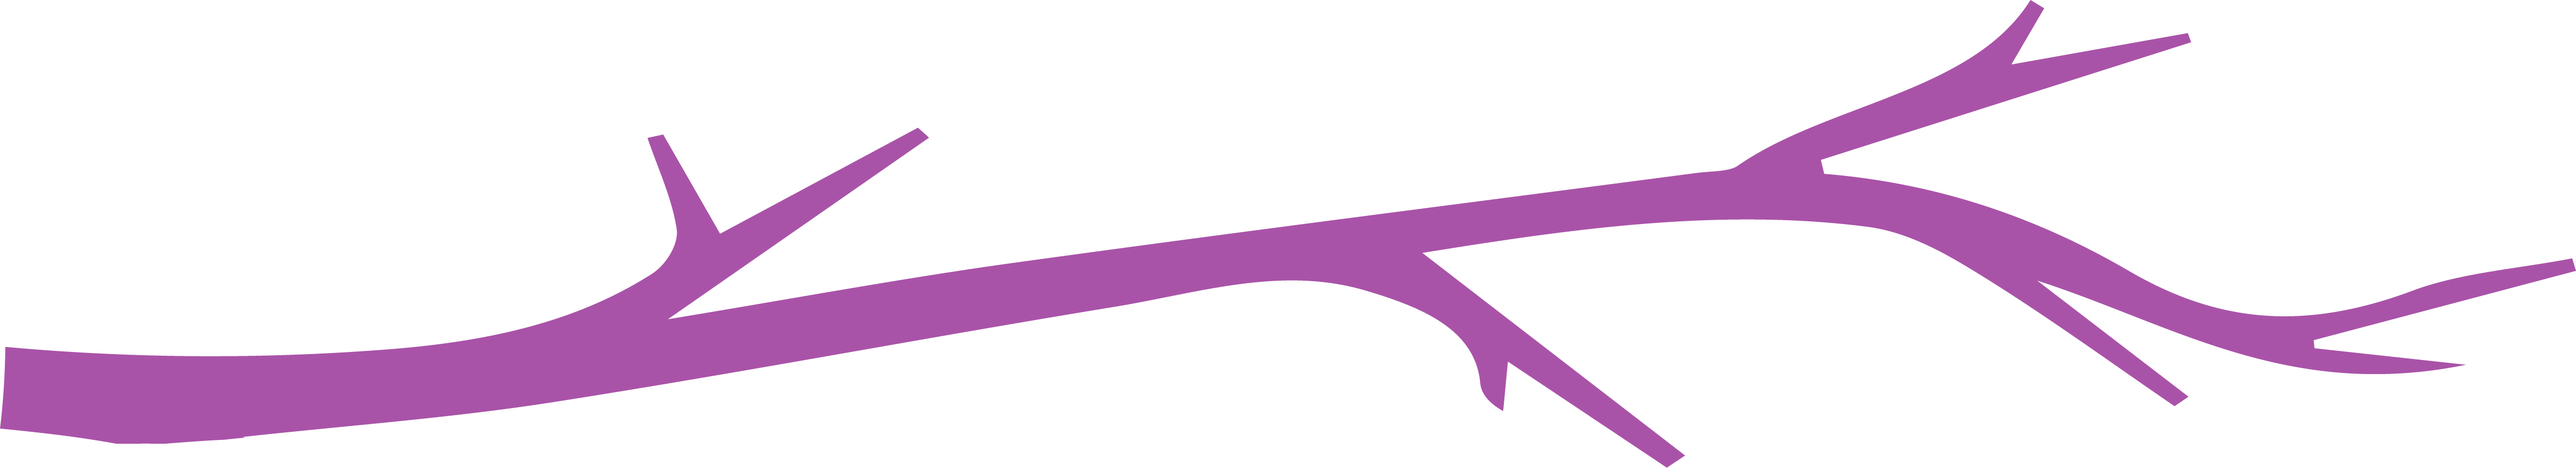
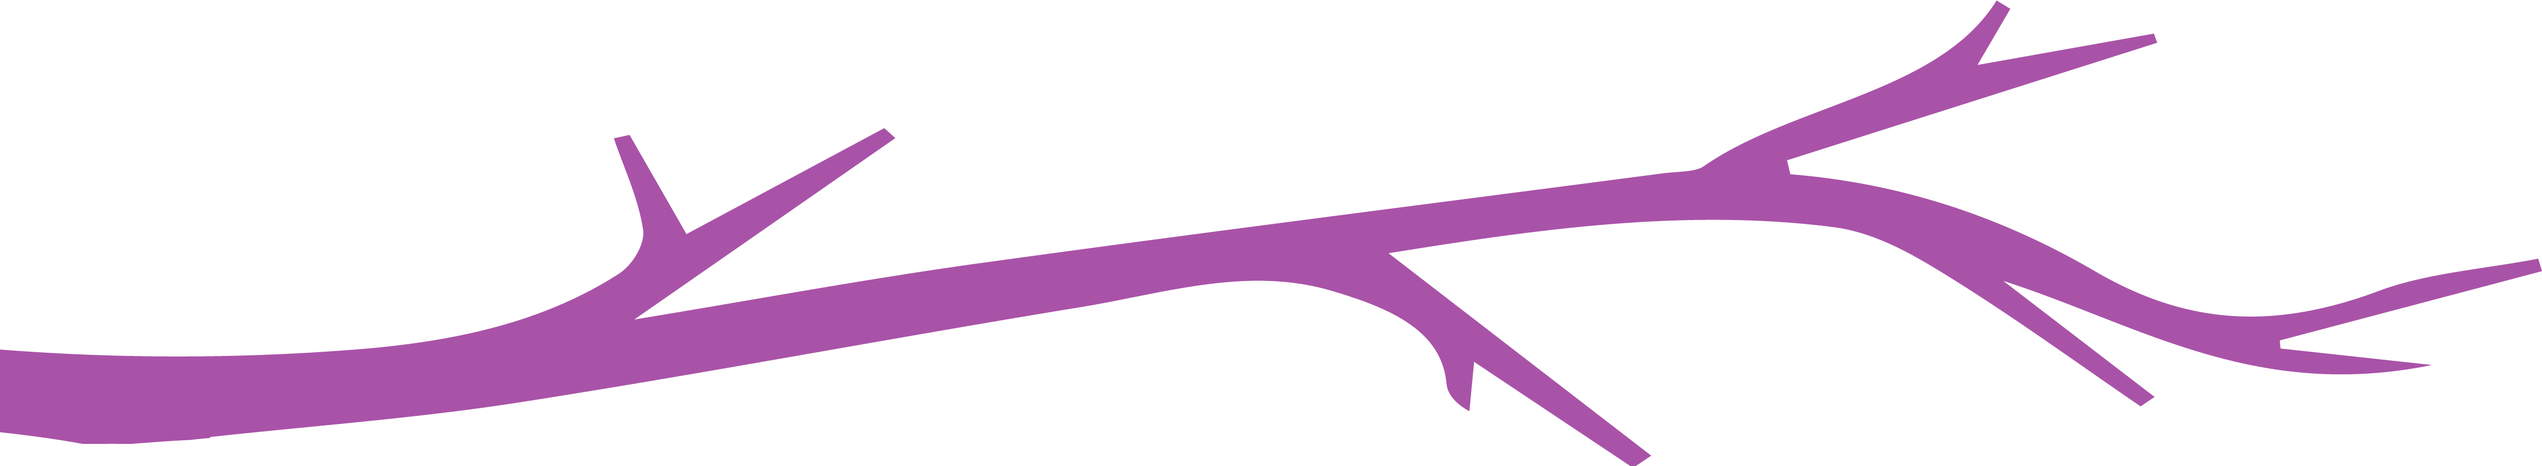
branch styling

diff --git a/art128/final-v1/css/style.css b/art128/final-v1/css/style.css
@@ -520,7 +520,7 @@ h3.venue {
         width: 90%;
     }
     .video-background {
-        width: 90%;
+        width: 85%;
     }
     h2.merch {
         text-align: left;
@@ -581,9 +581,9 @@ h3.venue {
 
 /*  BRANCH STYLING */
 
-    .branch {
+    /* .branch {
        border: 1px solid red;
-    }
+    } */
 
     .branch-one {
         background-image: url(../img/branch-one.png);
@@ -592,18 +592,21 @@ h3.venue {
         background-position: left;
         position: absolute;
         top: 0;
-        left: 0;
-        width: 25%;
+        left: -25%;
+        width: 50%;
         height: 50%;
         z-index: -1;
+        max-width: auto;
     }
 
-    @media (max-width:767px) {
+    /* @media (max-width:767px) {
         .branch-one {
-            background-position: -7em 8em;
+            top: -5%;
+            left: -75%;
+            width: 100%;
 
         }
-    }
+    } */
 
     .branch-two {
         background-image: url(../img/branch-two.png);
@@ -612,18 +615,20 @@ h3.venue {
         background-position: right;
         position: absolute;
         bottom: 0;
-        right: 0em;
+        right: 0;
         width: 60%;
         height: 50%;
         max-width: 1500px;
         z-index: -1;
     }
 
-    @media (max-width:767px) {
+    /* @media (max-width:767px) {
         .branch-two {
-        background-position: 15em 140px;
+        bottom: 15%;
+        right: -60%;
+        width: 100%;
         }
-    }
+    } */
 
     .branch-three {
         background-image: url(../img/branch-three.png);
@@ -633,16 +638,16 @@ h3.venue {
         position: absolute;
         top: 0;
         left: 0;
-        width: 100%;
+        width: 50%;
         height: 100%;
         z-index: -1;
     }
     
-    @media (max-width:767px) {
+    /* @media (max-width:767px) {
         .branch-three {
         background-position: -11em 75px;
         }
-    }
+    } */
 
     .branch-four {
         background-image: url(../img/branch-four.png);
@@ -651,9 +656,9 @@ h3.venue {
         background-position: right bottom;
         position: absolute;
         right: 0;
-        bottom: 0;
+        bottom: -80%;
         width: 30%;
-        height: 100%;
+        height: 150%;
         z-index: -1;
         border: 1px solid red;
     }
@@ -664,9 +669,9 @@ h3.venue {
         background-repeat: no-repeat;
         background-position: bottom left;
         position: absolute;
-        left: 0em;
-        bottom: 0;
-        width: 100%;
+        left: 0;
+        bottom: -45%;
+        width: 40%;
         height: 100%;
         z-index: -1;
     }
@@ -678,7 +683,7 @@ h3.venue {
         background-position: right center;
         position: absolute;
         right: 0;
-        top: 0;
+        top: 20%;
         width: 60%;
         height: 100%;
         z-index: -1;
@@ -691,10 +696,24 @@ h3.venue {
         background-position: bottom right;
         position: absolute;
         right: 0;
-        bottom: 0;
-        width: 25%;
+        bottom: -70%;
+        width: 50%;
         height: 100%;
         z-index: -1;
+    }
+
+    .branch-eight {
+        background-image: url(../img/branch-eight.png);
+        background-size: contain;
+        background-repeat: no-repeat;
+        background-position: bottom left;
+        position: absolute;
+        left: 0;
+        bottom: -10%;
+        width: 50%;
+        height: 100%;
+        z-index: -1;
+        max-width: 60%;
     }
 
 

diff --git a/art128/final-v1/index.html b/art128/final-v1/index.html
@@ -104,12 +104,11 @@
                    <div class="column two-thirds">
                        <h2>Media</h2>
                        <iframe width="560" height="315" class="video-iframe" src="https://www.youtube.com/embed/7mBBSMiToDI?controls=0&amp;start=5&mute=1&autoplay=1" title="YouTube video player" frameborder="0" allow="accelerometer; autoplay; clipboard-write; encrypted-media; gyroscope; picture-in-picture" allowfullscreen></iframe>
-                      
-                       <div class="video-background"></div>
+                      <div class="video-background"></div>
                    </div>
                </div>
            </div>
-           <div class="branch branch-five">Branch Five</div>
+           <div class="branch branch-five"></div>
        </section>
 
        <section id="merch">
@@ -123,7 +122,7 @@
            </div>
        </div>
    </div>
-   <div class="branch branch-six">Branch Six</div>
+   <div class="branch branch-six"></div>
 </section>
 
 <section id="blog">
@@ -136,7 +135,7 @@
             </div>
         </div>
     </div>
-    <div class="branch branch-seven">Branch Seven</div>
+    <div class="branch branch-seven"></div>
 </section>
 
         </main>
@@ -148,7 +147,7 @@
                     </div>
                 </div>
                 </div>
-                <div class="branch branch-eight">Branch Eight</div>
+                <div class="branch branch-eight"></div>
                 </section>
 
                 
